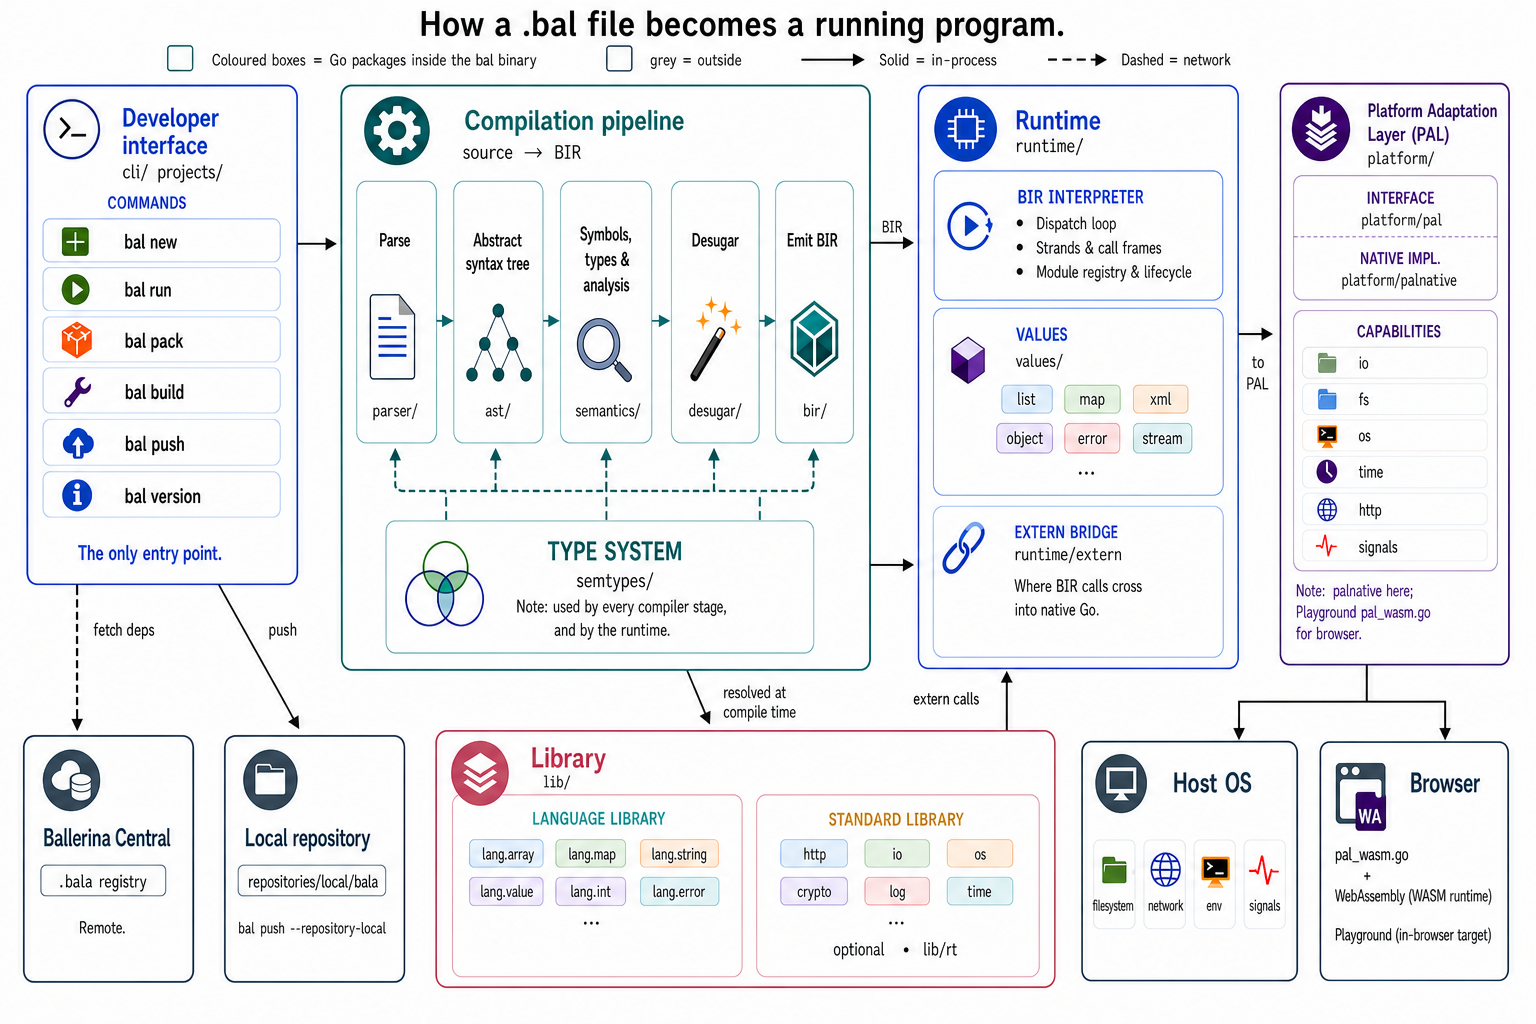
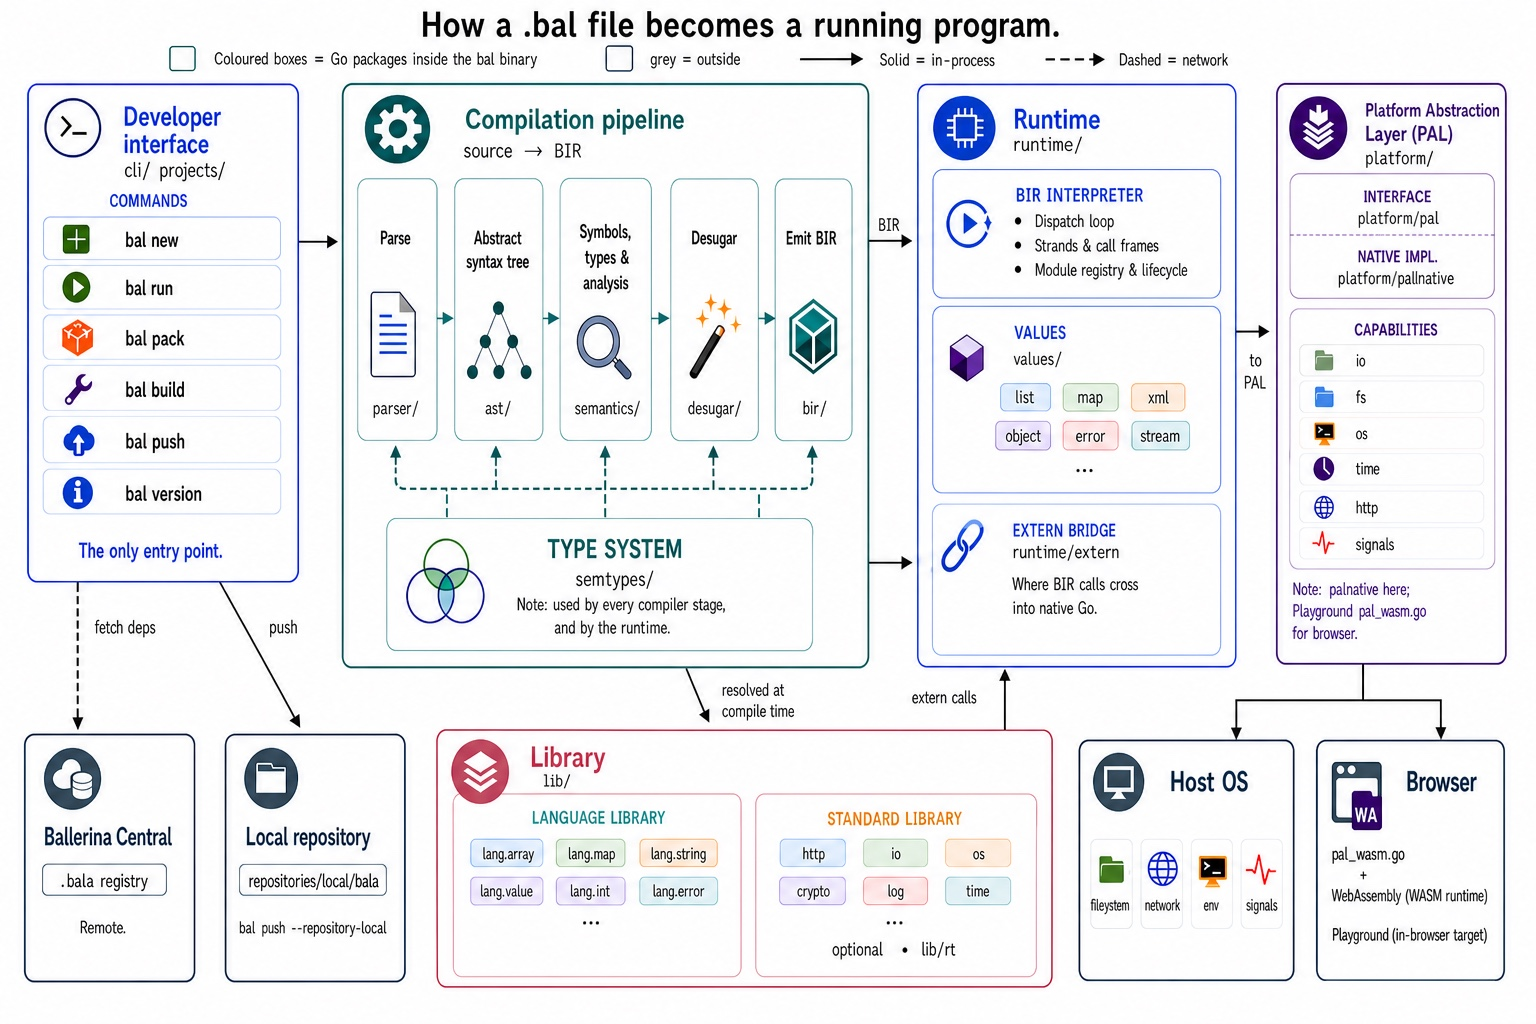
docs(architecture): update architecture diagram and PAL naming

diff --git a/platform/pal/platform.go b/platform/pal/platform.go
@@ -14,7 +14,7 @@
 // specific language governing permissions and limitations
 // under the License.
 
-// Package pal provides the Platform Adaptation Layer (PAL).
+// Package pal provides the Platform Abstraction Layer (PAL).
 //
 // PAL abstracts away interactions with the underlying platform such that the
 // runtime can be agnostic toward the underlying platform. All library functions

diff --git a/doc/guides/ARCHITECTURE.md b/doc/guides/ARCHITECTURE.md
@@ -2,7 +2,7 @@
 
 Ballerina Nutcracker compiles a `.bal` program to **Ballerina Intermediate Representation (BIR)** and then interprets that BIR (`bal run`), or embeds the BIR with the runtime into a standalone binary (`bal build`). Almost everything below is a Go package inside the single static `bal` binary; Ballerina Central, the local repository, the host OS, and the browser sit outside it.
 
-![Ballerina Nutcracker architecture: the bal CLI (new, run, pack, build, push, version) feeds the compilation pipeline to BIR; the runtime interprets BIR or bal build embeds it in a standalone binary; the library resolves at compile time and via extern calls; the Platform Adaptation Layer reaches Host OS (palnative) or browser (pal_wasm.go). Ballerina Central is fetched over the network; bal push installs to the local repository.](../img/architecture.jpg)
+![Ballerina Nutcracker architecture: the bal CLI (new, run, pack, build, push, version) is the primary entry point for working with Ballerina — its commands cover package creation, versioning, and resolving dependencies from Ballerina Central. The CLI feeds source into the compilation pipeline, which lowers it to Ballerina Intermediate Representation (BIR); the runtime interprets BIR directly, while bal build embeds the BIR into a self-contained standalone binary. The standard library resolves at compile time; native implementations are invoked at runtime via extern calls, while pure-Ballerina modules run directly as BIR. The Platform Abstraction Layer (PAL) isolates environment-specific concerns with two backends: palnative for the host OS and pal_wasm.go for the browser (WebAssembly). Ballerina Central is accessed over the network for package resolution; bal push installs the packaged artifact into the local repository.](../img/architecture.jpg)
 
 ## Compilation pipeline
 
@@ -52,7 +52,7 @@ Both libraries are declared in Ballerina, and they are not only a runtime depend
 
 Where a module needs native code, its Go implementation is registered by [`lib/rt`](../../lib/rt/). Some modules (`lang.object`, `math.vector`) are pure Ballerina with no `external` functions at all.
 
-## Platform Adaptation Layer
+## Platform Abstraction Layer
 
 [`platform/pal/`](../../platform/pal/) defines the interface — `pal.Platform` has exactly six fields: `IO`, `FS`, `OS`, `Time`, `HTTP` and `Signals`. [`platform/palnative/`](../../platform/palnative/) implements them for a native host.
 
@@ -86,7 +86,7 @@ Compiler and runtime modules such as `ast`, `projects`, `runtime`, and `semtypes
 
 Solid arrows in the diagram are function calls inside one process (or local filesystem writes). The dashed arrow is the network call to Central. Things that sit outside the binary:
 
-- **Ballerina Central** — the remote `.bala` registry, reached over the network by `projects/centralclient` when resolving dependencies (`fetch deps`). This is the only remote the toolchain itself talks to; a running Ballerina program makes its own calls through `pal.HTTP`.
+- **Ballerina Central** — the remote `.bala` registry, reached over the network by `projects/centralclient` when resolving dependencies (`fetch deps`). Ballerina Central is the remote used for Ballerina package resolution.
 - **Local repository** — on-disk under `repositories/local/bala`, written by `bal push --repository=local` so other packages can depend on `repository = "local"`. Not a network call.
 - **The host OS** — filesystem, network, environment and signals, reached by the runtime through `platform/palnative`.
 - **The browser** — the [Ballerina Playground](https://github.com/ballerina-nutcracker/playground) implements the same `pal.Platform` for WebAssembly (`pal_wasm.go`), so the same program can run in a tab without changing Ballerina source.

diff --git a/README.md b/README.md
@@ -34,7 +34,7 @@
 
 ## Architecture
 
-![Ballerina Nutcracker architecture: the bal CLI (new, run, pack, build, push, version) feeds the compilation pipeline to BIR; the runtime interprets BIR or bal build embeds it in a standalone binary; the library resolves at compile time and via extern calls; the Platform Adaptation Layer reaches Host OS (palnative) or browser (pal_wasm.go). Ballerina Central is fetched over the network; bal push installs to the local repository.](doc/img/architecture.jpg)
+![Ballerina Nutcracker architecture: the bal CLI (new, run, pack, build, push, version) is the primary entry point for working with Ballerina — its commands cover package creation, versioning, and resolving dependencies from Ballerina Central. The CLI feeds source into the compilation pipeline, which lowers it to Ballerina Intermediate Representation (BIR); the runtime interprets BIR directly, while bal build embeds the BIR into a self-contained standalone binary. The standard library resolves at compile time; native implementations are invoked at runtime via extern calls, while pure-Ballerina modules run directly as BIR. The Platform Abstraction Layer (PAL) isolates environment-specific concerns with two backends: palnative for the host OS and pal_wasm.go for the browser (WebAssembly). Ballerina Central is accessed over the network for package resolution; bal push installs the packaged artifact into the local repository.](doc/img/architecture.jpg)
 
 Almost everything inside the binary is a Go package; Ballerina Central, the local repository, the host OS, and the browser sit outside it. See [ARCHITECTURE.md](doc/guides/ARCHITECTURE.md) for how the diagram maps onto source directories.
 

diff --git a/.agents/skills/add-stdlib-support/references/pal.md b/.agents/skills/add-stdlib-support/references/pal.md
@@ -1,6 +1,6 @@
 # Adding a PAL method
 
-**PAL constraint**: every platform interaction (io, http, fs, env, time) must go through the Platform Adaptation Layer, never the underlying Go stdlib directly. If the relevant PAL method doesn't exist, add it across three files:
+**PAL constraint**: every platform interaction (io, http, fs, env, time) must go through the Platform Abstraction Layer, never the underlying Go stdlib directly. If the relevant PAL method doesn't exist, add it across three files:
 
 1. **`platform/pal/platform.go`** — add new fields to the relevant struct (`IO`, `Time`, `FS`, `HTTP`, `OS`) or define a new struct if no existing category fits.
 

diff --git a/AGENTS.md b/AGENTS.md
@@ -15,7 +15,7 @@ This document defines how AI/code agents should work with this repository: codin
 
 - Each bal/go file should have the correct license header
 
-## PAL (Platform Adaptation Layer)
+## PAL (Platform Abstraction Layer)
 
 - All platform interactions (e.g. io, http, fs) must go through PAL, not the underlying platform directly.
 
